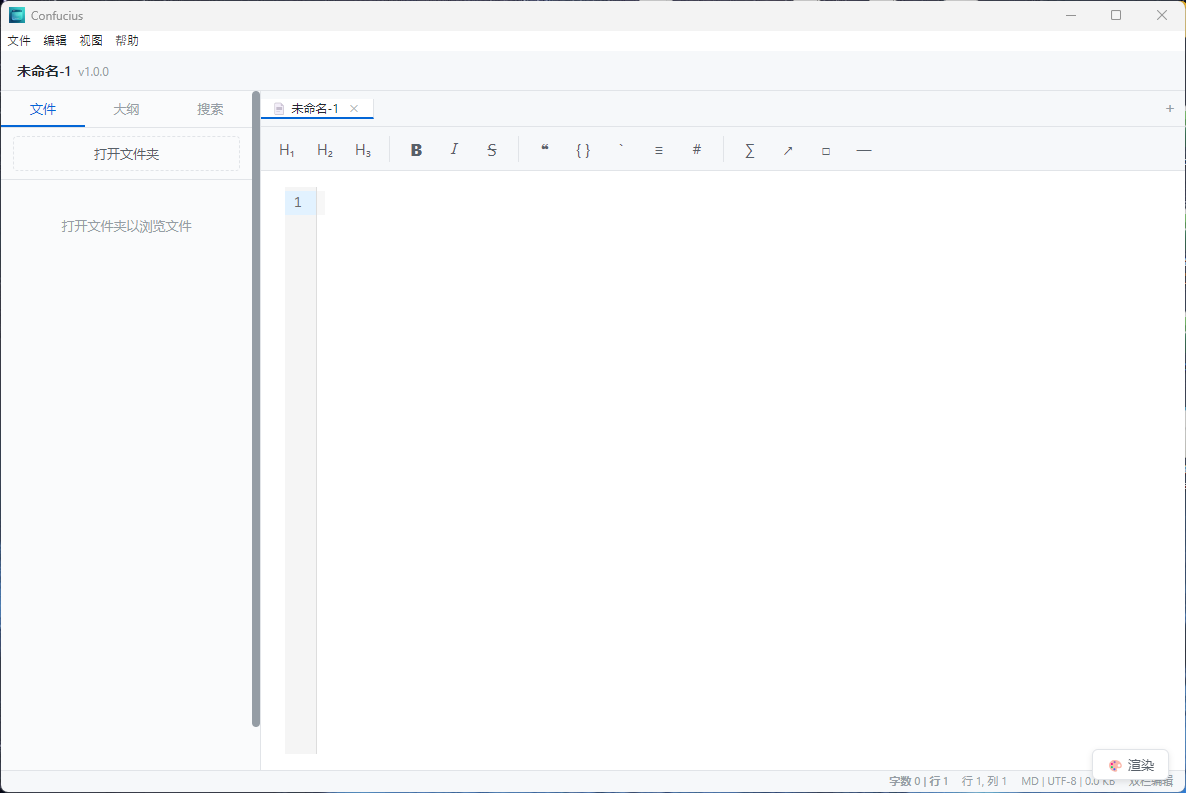
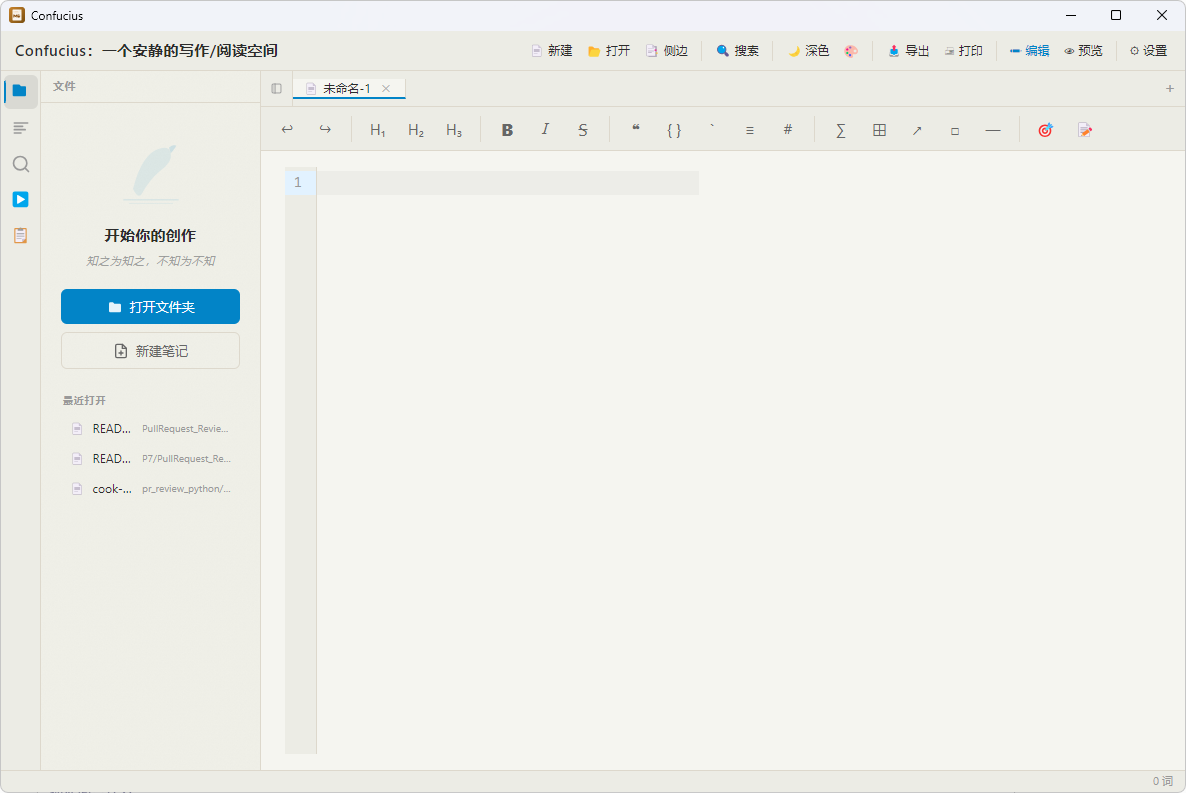
doc: update readme.

diff --git a/README_EN.md b/README_EN.md
@@ -18,12 +18,16 @@ Split editing mode: CodeMirror 6 editor on the left, markdown-it live preview on
 - **Preview Mode**: Full-screen reading with centered layout (`Ctrl+Shift+O`)
 
 ### Editor
-- **Format Toolbar**: Undo/redo, headings, bold/italic/strikethrough, quote/code block/list, link/image/hr/formula, focus/typewriter mode
+- **Format Toolbar**: Undo/redo, headings, bold/italic/strikethrough, quote/code block/list, link/image/hr/formula/table, focus/typewriter mode
+- **Table Insertion**: `` ⊞ `` toolbar button with row/column picker, inserts aligned Markdown table template
 - **CodeMirror 6 Core**: High-performance text editing with Markdown syntax highlighting
+- **Find & Replace**: `Ctrl+F` search, `Ctrl+Shift+F` replace, F3 next match, auto-highlight all occurrences
 - **Code Highlighting**: 190+ languages via highlight.js
 - **Math Formulas**: KaTeX rendering for `$...$` inline and `$$...$$` block formulas
 - **Diagram Support**: Mermaid flowcharts, sequence diagrams, Gantt charts, etc.
 - **GFM Compatible**: Task lists, tables, etc.
+- **Paste/Drag Images**: Copy or drag image files from file manager into editor — auto-inserts `![name](path)` Markdown syntax
+- **URL Paste Auto-Link**: Select text then paste a URL — automatically converts to `[text](url)` link
 - **Focus Mode** (F11): Non-active lines semi-transparent
 - **Typewriter Mode** (F12): Active line always centered in viewport
 - **Context Menu**: Right-click for save/save-as/undo/redo/cut/copy/paste
@@ -35,14 +39,14 @@ Split editing mode: CodeMirror 6 editor on the left, markdown-it live preview on
 - **File Tree Sidebar**: Browse and open Markdown files within a folder
 - **Outline Panel**: Auto-extract heading structure, click to jump in editor and preview
 - **Global Search**: Cross-file full-text search, 300ms debounce, parallel reading
-- **File Operations**: New, open, save, save as
+- **File Operations**: New, open, save, save as, **auto-save** (every 5 seconds)
 - **Sidebar Context Menu**: New file/directory, rename, delete
 - **Drag & Drop Open**: Drag `.md` / `.markdown` files to app icon to open directly
 
 ### View & Appearance
-- **Eight Themes**: Light (Plain White, Warm Sun, Cloud, Mint) / Dark (Night Black, Deep Sea, Warm Gray, Ink Bamboo), persisted in localStorage, toolbar one-click toggle
+- **Twelve Themes**: 6 light (Plain White, Warm Sun, Cloud, Mint, Tokyo Night Light, Rose Pine Dawn) / 6 dark (Night Black, Deep Sea, Warm Gray, Ink Bamboo, Tokyo Night, Rose Pine), persisted in localStorage, toolbar one-click toggle + dropdown picker with color swatches
 - **Brand Titlebar**: App name and tagline on the left, toolbar on the right
-- **Unified Settings Panel**: General settings (focus/typewriter/hide menu), theme management with swatches, shortcut reference, about
+- **Unified Settings Panel**: General settings (focus/typewriter/hide menu), theme management with swatches, plugin management, shortcut reference, about
 - **Resizable Split**: Drag to adjust split width freely
 - **Scroll Sync**: Editor and preview scroll percentage synced in split mode
 - **Sidebar Paper Texture**: Subtle CSS-generated grain overlay on warm themes
@@ -52,7 +56,7 @@ Split editing mode: CodeMirror 6 editor on the left, markdown-it live preview on
 - **PDF Export**: Generate A4 document via Electron printToPDF
 
 ### Status Bar & Plugins
-- **Status Bar**: Show editing mode, file encoding/size, cursor position, word count
+- **Status Bar**: Save status (● unsaved / ✓ saved), word count (including selected characters), cursor position (line:col)
 - **Plugin System**: Built-in and external plugin support
   - Sandbox execution + command bus
   - Plugins can register status bar entries, sidebar panels, global commands
@@ -80,11 +84,12 @@ Split editing mode: CodeMirror 6 editor on the left, markdown-it live preview on
 | `Ctrl+O` | Open file |
 | `Ctrl+S` | Save file |
 | `Ctrl+Shift+S` | Save as |
-| `Ctrl+\` | Toggle sidebar |
+| `Ctrl+F` | Find in document |
 | `Ctrl+Shift+F` | Global search |
+| `Ctrl+\` | Toggle sidebar |
 | `Ctrl+Shift+P` | Toggle editing mode (split ↔ wysiwyg) |
 | `Ctrl+Shift+O` | Toggle preview mode |
-| `Ctrl+Shift+I` | Plugin manager |
+| `Ctrl+Shift+I` | Plugin manager (Settings → Plugins) |
 | `F11` | Focus mode |
 | `F12` | Typewriter mode |
 | `Ctrl+B` | Bold `**text**` |
@@ -175,15 +180,19 @@ confucius/
 │   ├── stores/                     # Zustand stores
 │   └── styles/                     # CSS styles
 │
-├── themes/                         # Theme CSS variables (8 themes)
+├── themes/                         # Theme CSS variables (12 themes)
 │   ├── plain-white.css             # Light · Plain White
 │   ├── warm-sun.css                # Light · Warm Sun
 │   ├── cloud.css                   # Light · Cloud
 │   ├── mint.css                    # Light · Mint
+│   ├── tokyo-night-light.css       # Light · Tokyo Night Light
+│   ├── rose-pine-dawn.css          # Light · Rose Pine Dawn
 │   ├── night-black.css             # Dark · Night Black
 │   ├── deep-sea.css                # Dark · Deep Sea
 │   ├── warm-gray.css               # Dark · Warm Gray
-│   └── mo-zhu.css                  # Dark · Ink Bamboo
+│   ├── mo-zhu.css                  # Dark · Ink Bamboo
+│   ├── tokyo-night.css             # Dark · Tokyo Night
+│   └── rose-pine.css               # Dark · Rose Pine
 │
 ├── plugins/                        # Plugin directory
 │   ├── builtins/doc-templates/     # Doc templates plugin
@@ -206,7 +215,7 @@ confucius/
 
 ## Development Status
 
-All core features are stable and complete: three editing modes, plugin system, security hardening, 8-theme system, welcome screen with recent files, custom app icon — with 118 unit/integration tests and 14 E2E tests passing, CI/CD pipelines ready for all three platforms.
+All core features are stable and complete. v0.2.0 adds: find & replace in document, URL paste auto-link, paste/drag images, auto-save, enhanced status bar (word count, cursor position, save status), table insertion helper, 12-theme system, plugin management integrated into settings panel — with 118 unit/integration tests and 14 E2E tests passing, CI/CD pipelines ready for all three platforms.
 
 ## Roadmap
 

diff --git a/README.md b/README.md
@@ -18,12 +18,16 @@
 - **纯预览模式**：全屏阅读，居中布局（`Ctrl+Shift+O`）
 
 ### 编辑器
-- **格式化工具栏**：撤销/重做、标题、加粗/斜体/删除线、引用/代码块/列表、链接/图片/分割线/公式、专注/打字机模式
+- **格式化工具栏**：撤销/重做、标题、加粗/斜体/删除线、引用/代码块/列表、链接/图片/分割线/公式/表格、专注/打字机模式
+- **表格插入**：工具栏「⊞ 表格」按钮，弹窗选择行列数，自动生成对齐的 Markdown 表格模板
 - **CodeMirror 6 内核**：高性能文本编辑，Markdown 语法高亮
+- **查找替换**：`Ctrl+F` 搜索，`Ctrl+Shift+F` 替换，F3 跳转下一处，选中词自动高亮所有匹配
 - **代码高亮**：支持 190+ 语言（highlight.js）
 - **数学公式**：KaTeX 渲染 `$...$` 行内公式和 `$$...$$` 块级公式
 - **图表支持**：Mermaid 流程图、时序图、甘特图等
 - **GFM 兼容**：任务列表、表格等
+- **粘贴/拖拽图片**：从文件管理器复制或拖拽图片到编辑器，自动插入 `![文件名](path)` Markdown 语法
+- **粘贴 URL 转链接**：选中文字后粘贴 URL，自动转换为 `[文字](url)` 链接
 - **专注模式** (F11)：非活动行半透明
 - **打字机模式** (F12)：编辑行始终视口居中
 - **右键菜单**：编辑区右键弹出保存/另存为/撤销/重做/剪切/复制/粘贴
@@ -35,14 +39,14 @@
 - **文件树侧边栏**：浏览和打开文件夹内的 Markdown 文件
 - **大纲面板**：自动提取标题结构，点击跳转编辑器和预览区
 - **全局搜索**：跨文件全文搜索，防抖 300ms，并行读取
-- **文件操作**：新建、打开、保存、另存为
+- **文件操作**：新建、打开、保存、另存为、**自动保存**（每 5 秒自动保存未保存的修改）
 - **侧边栏右键菜单**：新建文件/目录、重命名、删除
 - **拖拽打开**：拖拽 `.md` / `.markdown` 文件到应用图标直接打开
 
 ### 视图 & 外观
-- **八套主题**：浅色（素白纸、暖阳、云白、薄荷）/ 深色（暗夜黑、深海、暖灰、墨竹），持久化 localStorage，工具栏一键切换浅/深模式
+- **十二套主题**：浅色 6 套（素白纸、暖阳、云白、薄荷、东京夜白、玫瑰黎明）/ 深色 6 套（暗夜黑、深海、暖灰、墨竹、东京夜、玫瑰松），持久化 localStorage，工具栏一键切换浅/深模式 + 下拉选主题（含色条预览）
 - **品牌标题栏**：左侧显示应用名称与副标语，工具栏居右排列
-- **统一设置面板**：通用设置（专注/打字机/隐藏主菜单）、主题管理与预览、快捷键速查表、关于信息
+- **统一设置面板**：通用设置（专注/打字机/隐藏主菜单）、主题管理与预览、插件管理、快捷键速查表、关于信息
 - **可拖拽分栏**：双栏宽度自由调节
 - **滚动同步**：双栏模式下编辑区与预览区滚动百分比同步
 - **侧边栏纸张纹理**：暖色主题下侧边栏叠加 CSS 生成的细腻颗粒感
@@ -52,7 +56,7 @@
 - **PDF 导出**：通过 Electron printToPDF 生成 A4 文档
 
 ### 状态栏 & 插件
-- **状态栏**：底部显示编辑模式、文件编码/大小、光标位置、字数统计
+- **状态栏**：底部显示保存状态（● 未保存 / ✓ 已保存）、字数统计（含选中字符数）、光标位置（行:列）
 - **插件系统**：支持内置和外部插件
   - Commander 模式 + 沙箱执行
   - 插件可注册状态栏条目、侧边栏面板、全局命令
@@ -80,11 +84,12 @@
 | `Ctrl+O` | 打开文件 |
 | `Ctrl+S` | 保存文件 |
 | `Ctrl+Shift+S` | 另存为 |
-| `Ctrl+\` | 切换侧边栏 |
+| `Ctrl+F` | 文档内查找 |
 | `Ctrl+Shift+F` | 全局搜索 |
+| `Ctrl+\` | 切换侧边栏 |
 | `Ctrl+Shift+P` | 切换编辑模式 (split ↔ wysiwyg) |
 | `Ctrl+Shift+O` | 切换预览模式 |
-| `Ctrl+Shift+I` | 插件管理 |
+| `Ctrl+Shift+I` | 插件管理（设置 → 插件） |
 | `F11` | 专注模式 |
 | `F12` | 打字机模式 |
 | `Ctrl+B` | 加粗 `**text**` |
@@ -181,15 +186,19 @@ confucius/
 │   ├── stores/                     # Zustand 状态
 │   └── styles/                     # CSS 样式
 │
-├── themes/                         # 主题 CSS 变量（8 套）
+├── themes/                         # 主题 CSS 变量（12 套）
 │   ├── plain-white.css             # 浅色·素白纸
 │   ├── warm-sun.css                # 浅色·暖阳
 │   ├── cloud.css                   # 浅色·云白
 │   ├── mint.css                    # 浅色·薄荷
+│   ├── tokyo-night-light.css       # 浅色·东京夜白
+│   ├── rose-pine-dawn.css          # 浅色·玫瑰黎明
 │   ├── night-black.css             # 深色·暗夜黑
 │   ├── deep-sea.css                # 深色·深海
 │   ├── warm-gray.css               # 深色·暖灰
-│   └── mo-zhu.css                  # 深色·墨竹
+│   ├── mo-zhu.css                  # 深色·墨竹
+│   ├── tokyo-night.css             # 深色·东京夜
+│   └── rose-pine.css               # 深色·玫瑰松
 │
 ├── plugins/                        # 插件目录
 │   ├── builtins/doc-templates/     # 文档模板插件
@@ -212,7 +221,7 @@ confucius/
 
 ## 开发状态
 
-核心功能已全部实现并稳定：编辑器三模式、插件系统、安全加固、主题体系（8套）、欢迎屏/最近文件、应用图标，共 118 单元测试 + 14 E2E 测试通过，CI/CD 三平台打包就绪。
+核心功能已全部实现并稳定。v0.2.0 新增：文档内查找替换、粘贴 URL 自动转链接、粘贴/拖拽图片、自动保存、状态栏增强（字数/光标/保存状态）、表格插入辅助、主题体系扩展至 12 套、插件管理集成到设置面板。共 118 单元测试 + 14 E2E 测试通过，CI/CD 三平台打包就绪。
 
 ## 未来展望
 
